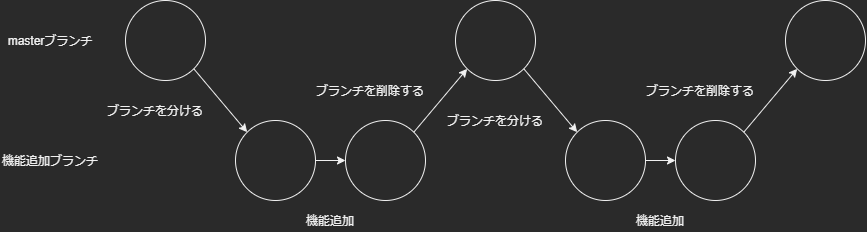
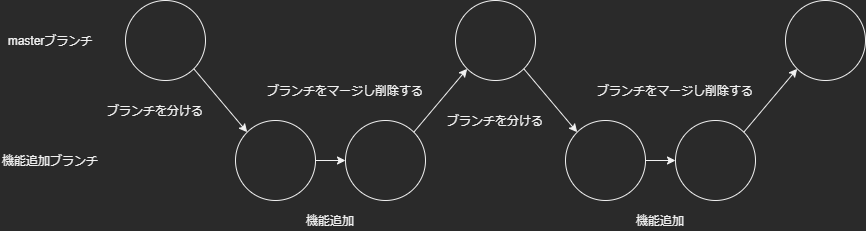
fordevelopers.mdを少し変更
- 画像内の誤解を招く文字を修正
- 文章内の間違った言葉の使い方・誤字を修正

diff --git a/fordevelopers.md b/fordevelopers.md
@@ -1,35 +1,35 @@
 # 開発者の方々へ
 
-- GitHub Flowを使用して開発して下さい。  
+- GitHub Flowを使用して開発してください。  
   ![GitHub Flowの解説画像](https://raw.githubusercontent.com/NanJ-Programming-Team/Yumemirebananashi/master/Images/GitHub-Flow.png)
 
-- ver.**2020.1.2f1**のUnityを開発に使用して下さい。
+- ver.**2020.1.2f1**のUnityを開発に使用してください。
 
 - 開発を始める前に[Stereoarts Homepage](http://stereoarts.jp/)から「MMD4Mecanim_Beta_yyyymmdd.zip」(「yyyymmdd」の部分は日付です)をダウンロードし、  
-  解凍したファイルの中から「MMD4Mecanim.unitypackage」を/Assets/直下にインポートして下さい。
+  解凍したファイルの中から「MMD4Mecanim.unitypackage」を/Assets/直下にインポートしてください。
 
-- Assetは/Assets/直下にインポートして下さい。
+- Assetは/Assets/直下にインポートしてください。
 
-- シーンを追加する場合、/Assets/Scenes/にシーン名でフォルダを作り、作成したフォルダの中にシーンを作成して下さい。  
-  追加したシーンを新しいステージとして使用する場合、フォルダ名とシーン名は「Stage 〇(数字)」フォルダにして下さい。  
+- シーンを追加する場合、/Assets/Scenes/にシーン名でフォルダを作り、作成したフォルダの中にシーンを作成してください。  
+  追加したシーンを新しいステージとして使用する場合、フォルダ名とシーン名は「Stage 〇(数字)」にしてください。  
   作成したステージのテーマをリポジトリの管理者([ReNeeter](https://github.com/ReNeeter))に伝えてくれればありがたいです。
 
-- 作成したシーン内で使用するファイルも「Stage 〇(数字)」フォルダ内にフォルダを作り、そこに入れて下さい。  
-  もし説明が理解できない場合は、「Stage 1」フォルダを参考にして下さい。
+- 作成したシーン内で使用するファイルも、シーンが入っているフォルダの中にフォルダを作りそこに入れてください。  
+  もし説明が理解できない場合は、「Stage 1」フォルダを参考にしてください。
 
-- 基本的には他の人が作っているシーンを編集しないで下さい。  
-  もし編集したい場合は編集してる人にDiscordのDM等で確認を取ってから編集して下さい。
+- 基本的には他の人が作っているシーンを編集しないでください。  
+  もし編集したい場合は編集してる人にDiscordのDM等で確認を取ってから編集してください。
 
-- /Assets/Scenes/Common/フォルダは基本的には使用しないで下さい。  
-  使用する場合はリポジトリの管理者([ReNeeter](https://github.com/ReNeeter))に確認を取ってから使用して下さい。
+- /Assets/Scenes/Common/フォルダは基本的には使用しないでください。  
+  使用する場合はリポジトリの管理者([ReNeeter](https://github.com/ReNeeter))に確認を取ってから使用してください。
 
 - プロジェクトの設定や.gitignoreは変更しないでください。
 
-- どのステージでも主人公(操作するキャラ)はやきうで固定して下さい。
+- どのステージでも主人公(操作するキャラ)は[やきう民](https://bowlroll.net/file/67850)で固定してください。
 
-- 「[やきう民](https://bowlroll.net/file/67850)」の変換済みモデルは/Assets/Scenes/Common/Models/やきう民/にありますので、それを使用して下さい。
+- 「[やきう民](https://bowlroll.net/file/67850)」の変換済みモデルは/Assets/Scenes/Common/Models/やきう民/にありますので、それを使用してください。
 
 ## シーンごとの編集者
 | シーン名 | 編集者(GitHubのユーザー名) | 備考 |
 ----|----|----
-| Stage 1 | [ReNeeter](https://github.com/ReNeeter) | ステージのテーマ:未定|
+| Stage 1 | [ReNeeter](https://github.com/ReNeeter) | ステージのテーマ:未定 |
